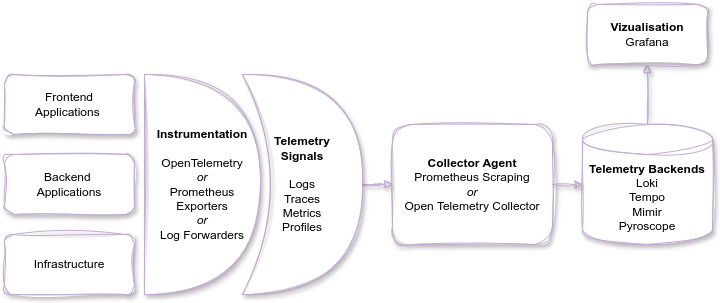
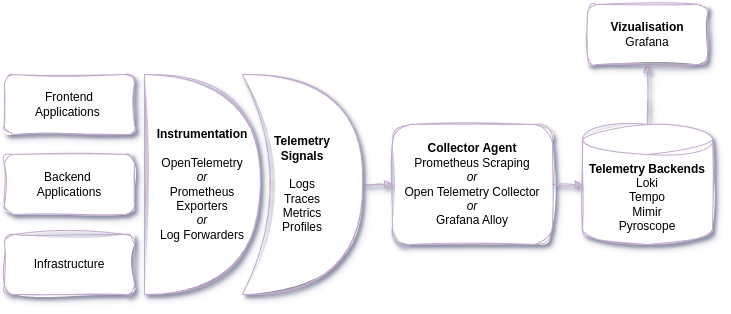
Update docs

Changed region(s): [[0.0, 0.0, 1.0, 1.0], [0.0306, 0.297, 0.1528, 0.3861], [0.275, 0.2673, 0.3056, 0.297]]

diff --git a/README.md b/README.md
@@ -3,14 +3,22 @@
 - [Observability with OpenTelemetry and Prometheus - A Curated Implementation Guide](#observability-with-opentelemetry-and-prometheus---a-curated-implementation-guide)
   - [1. Purpose of this guide](#1-purpose-of-this-guide)
   - [2. Overall Architecture](#2-overall-architecture)
-    - [External resources](#external-resources)
-  - [3. Instrumentation](#3-instrumentation)
-    - [3.1 Infrastructure](#31-infrastructure)
-      - [3.1.1 Kubernetes clusters](#311-kubernetes-clusters)
-      - [3.1.2 Docker hosts](#312-docker-hosts)
-      - [3.1.3 Linux Hosts](#313-linux-hosts)
-      - [3.1.4 Windows Hosts](#314-windows-hosts)
-      - [](#)
+  - [3. Setup Grafana Observability Platform](#3-setup-grafana-observability-platform)
+    - [3.1 Using Grafana Cloud](#31-using-grafana-cloud)
+    - [3.2 Open Source](#32-open-source)
+      - [3.2.1 All in one Docker container](#321-all-in-one-docker-container)
+      - [3.2.1 The hard way! Run each component separately](#321-the-hard-way-run-each-component-separately)
+  - [4. Instrumentation](#4-instrumentation)
+    - [4.1 Infrastructure](#41-infrastructure)
+      - [4.1.1 Kubernetes clusters](#411-kubernetes-clusters)
+      - [4.1.2 Linux Docker hosts](#412-linux-docker-hosts)
+      - [4.1.3 Linux Hosts](#413-linux-hosts)
+      - [4.1.4 Windows Hosts](#414-windows-hosts)
+    - [4. Backend Application](#4-backend-application)
+    - [4. Frontend Application](#4-frontend-application)
+  - [Observability Assets](#observability-assets)
+    - [Grafana Cloud](#grafana-cloud)
+    - [Open Source assets](#open-source-assets)
 
 
 ## 1. Purpose of this guide
@@ -22,28 +30,116 @@ This guide shows a curated approach to implementing observability using the open
 To obtain a concrete implementation that can run at scale, the Grafana Ecosystem will be used to store and analyze the data. We will be using Loki (Logs), Grafana (Vizualisation), Tempo (Traces), Mimir (Prometheus Metrics), Pyroscope (Profiles).
 
 To follow this guide you can choose 
- - the Open Source route by running all the components yourself
- - the Hosted Grafana Cloud version using the forever Free Tier : [Create a Grafana Cloud Free Account](https://grafana.com/auth/sign-up/create-user?pg=otelpromguide)
+- the Open Source route by running all the components yourself
+- the Hosted Grafana Cloud version using the forever Free Tier : [Create a Grafana Cloud Free Account](https://grafana.com/auth/sign-up/create-user?pg=otelpromguide)
 
 ## 2. Overall Architecture
 
 ![diagram](graphics/observability-architecture.png)
 
-### External resources
- - Links to come here here
+## 3. Setup Grafana Observability Platform
+
+### 3.1 Using Grafana Cloud 
+
+Grafana Cloud is SaaS offering with turnkey solutions for
+- Infrastructure observability
+- Backend and frontend application observability
+- AI/ML assisted root cause analysis
+- Performance & load testing
+- Synthetic monitoring
+- On call & incident response management
 
 
-## 3. Instrumentation
+Go to grafana.com and create a free account here : [Grafana Cloud Free Account](https://grafana.com/auth/sign-up/create-user?pg=otelpromguide)
 
-### 3.1 Infrastructure
+![Grafana Cloud Free Tier](graphics/gc-free-tier.png)
 
-#### 3.1.1 Kubernetes clusters
+### 3.2 Open Source
 
-#### 3.1.2 Docker hosts
+#### 3.2.1 All in one Docker container
 
-#### 3.1.3 Linux Hosts
+For development purposes you can use the all in one otel-lgtm docker image : 
+[Docker OTEL-LGTM git repo](https://github.com/grafana/docker-otel-lgtm)
+![Docker OTEL-LGTM](https://github.com/grafana/docker-otel-lgtm/blob/main/img/overview.png?raw=true)
 
-#### 3.1.4 Windows Hosts
+```bash
+docker run -d -p 3000:3000 \
+  -p 4317:4317 \
+  -p 4318:4318 \
+  -p 9090:9090 \
+  -p 4418:4418 \
+  -p 3100:3100 \
+  -p 4040:4040 \
+  grafana/otel-lgtm
+```
 
-### 4. 
+#### 3.2.1 The hard way! Run each component separately
 
+If you want to deploy it the hard way at scale, you can also follow documentation of each component and deploy them separately.
+
+ - [Grafana Vizualization](https://grafana.com/docs/grafana/latest/setup-grafana/installation/)
+ - [Prometheus](https://prometheus.io/docs/prometheus/latest/installation/)
+ - [Loki](https://grafana.com/docs/loki/latest/setup/install/)
+ - [Tempo](https://grafana.com/docs/tempo/latest/setup/)
+ - [Pyroscope](https://grafana.com/docs/pyroscope/latest/get-started/)
+
+
+## 4. Instrumentation
+
+To instrument infrastructure and applications will rely on :
+- Grafana Alloy is an all in one binary to build ingestion piplelines that can be composed of various components ([docs](https://grafana.com/docs/alloy/latest/))
+  - Prometheus exporters
+  - Open Telemetry Collector
+  - Continuous profiling instrumentation
+  - EBPF based instrumentation for producing OTEL traces
+- OpenTelemetry SDK's to instrument the code in various programming languages. ([docs](https://opentelemetry.io/docs/languages/))
+
+### 4.1 Infrastructure
+
+#### 4.1.1 Kubernetes clusters
+
+Grafana provides a helm chart to deploy Grafana Alloy on Kubernetes clusters. 
+
+These instances of Grafana Alloy also expose an OpenTelemetry Collector endpoint to receive metrics, logs and traces of applications deployed on that cluster that are instrumented with the OTEL SDK's. This ensures that application and infra data can be correlated out of the box.
+
+
+Here is a quickstart [install script](src/alloy-k8s-deploy.sh) with values for the most common usage on a vanilla k8s cluster.
+
+```
+
+```
+
+If you are using Grafana Cloud, you 
+
+Links to different resources : 
+- [Documentation of Helm Chart](https://github.com/grafana/k8s-monitoring-helm/blob/main/charts/k8s-monitoring/README.md)
+- [Examples of Helm chart value files](https://github.com/grafana/k8s-monitoring-helm/tree/main/charts/k8s-monitoring/docs/examples)
+- 
+
+
+
+#### 4.1.2 Linux Docker hosts
+
+TODO
+
+#### 4.1.3 Linux Hosts
+
+TODO
+
+#### 4.1.4 Windows Hosts
+
+TODO
+
+### 4. Backend Application
+
+TODO
+
+### 4. Frontend Application
+
+TODO
+
+## Observability Assets
+
+### Grafana Cloud
+
+### Open Source assets
